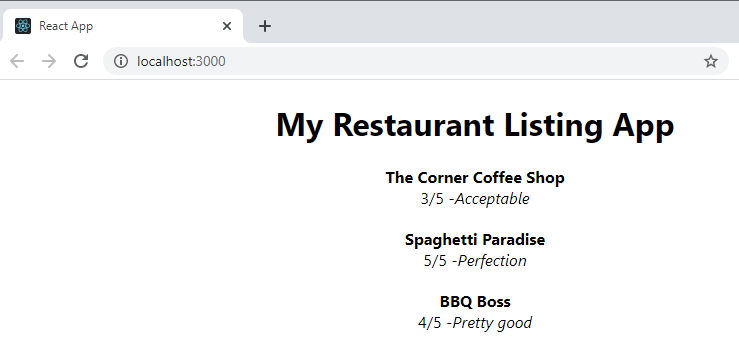
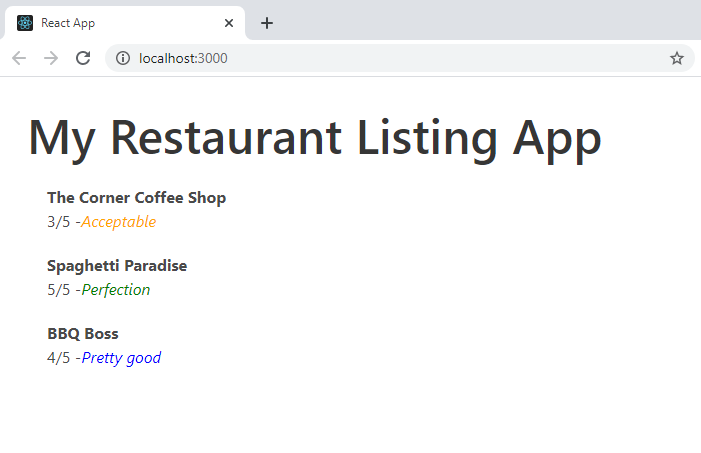
Style components

diff --git a/2021/2021-03-01_React JS Basics/src/quick-start-app/src/restaurants/RestaurantListItem.js b/2021/2021-03-01_React JS Basics/src/quick-start-app/src/restaurants/RestaurantListItem.js
@@ -3,6 +3,7 @@ import './RestaurantListItem.css';
 // Destructure restaurant from props object
 function RestaurantListItem({ restaurant }) {
   function getRatingElement(rating) {
+    // Example of conditional rendering
     switch(rating) {
       case '5':
         return <span className="rating-text perfect">Perfection</span>;

diff --git a/2021/2021-03-01_React JS Basics/Post.md b/2021/2021-03-01_React JS Basics/Post.md
@@ -131,22 +131,157 @@ At this point, the app should look like this.
 
 ## 4. <a name='style'></a>Style Components
 
-1. Add this to the top of `src/App.js`.
+1. Install a CSS framework of your choice. In this case, bulma.
+```
+npm install --save bulma
+```
+
+2. Add this to the top of `src/index.js`.
+```javascript
+// Import css framework
+import "bulma/css/bulma.min.css";
+```
+
+3. Modify `src/App.js` to look like this.
 ```javascript
 // Import css styles
 import './App.css';
-```
-2. Modify `src/App.css` to look like this.
-```css
-.App {
-  text-align: center;
+
+// Import the RestaurantList component from this path
+import RestaurantList from './restaurants/RestaurantList';
+
+function App() {
+  return (
+    <div className="App">
+      <h1 className="title is-1">My Restaurant Listing App</h1>
+
+      {/*Render the RestaurantList component and pass in a list of restaurants*/}
+      <RestaurantList restaurants={[
+        {
+          name: 'The Corner Coffee Shop',
+          rating: '3'
+        },
+        {
+          name: 'Spaghetti Paradise',
+          rating: '5'
+        },
+        {
+          name: 'BBQ Boss',
+          rating: '4'
+        }
+      ]}/>
+    </div>
+  );
 }
 
-h1 {
-  font-size: xx-large;
+export default App;
+```
+
+4. Modify `src/App.css` to look like this.
+```css
+.App {
+  margin: 30px;
 }
 ```
-3. 
+
+5. Modify `src/restaurants/RestaurantList.js` to look like this.
+```javascript
+// Import the RestaurantListItem component from this path
+import RestaurantListItem from './RestaurantListItem';
+
+import './RestaurantList.css';
+
+// Destructure restaurants from props object
+function RestaurantList({ restaurants }) {
+  return (
+    <ul>
+        {/*For each restaurant, render the RestaurantListItem component*/}
+        {restaurants.map(restaurant =>
+          <li key={restaurant.name}>
+            {/*Each child element must have a unique "key"*/}
+
+            {/*Pass the restaurant object to the nested component*/}
+            <RestaurantListItem
+              restaurant = {restaurant} />
+          </li>)}
+    </ul>
+  );
+}
+
+export default RestaurantList;
+```
+
+6. Create `src/restaurants/RestaurantList.css`.
+```css
+ul {
+  list-style-type: none;
+  padding: 0;
+  margin: 0;
+}
+```
+
+7. Modify `src/restaurants/RestaurantListItem.js` to look like this.
+```javascript
+import './RestaurantListItem.css';
+
+// Destructure restaurant from props object
+function RestaurantListItem({ restaurant }) {
+  function getRatingElement(rating) {
+    // Example of conditional rendering
+    switch(rating) {
+      case '5':
+        return <span className="rating-text perfect">Perfection</span>;
+      case '4':
+        return <span className="rating-text good">Pretty good</span>;
+      case '3':
+        return <span className="rating-text acceptable">Acceptable</span>;
+      default:
+        return <span className="rating-text">'Hmmm...'</span>;
+    }
+  }
+
+  return (
+    <div className="restaurant">
+      <div className="name">{restaurant.name}</div>
+      <div className="rating">
+        {restaurant.rating}/5 -
+        {getRatingElement(restaurant.rating)}
+      </div>
+    </div>
+  );
+}
+
+export default RestaurantListItem;
+```
+
+8. Create `src/restaurants/RestaurantListItem.css`.
+```css
+.restaurant {
+  margin: 20px;
+}
+
+.name {
+  font-weight: bold;
+}
+
+.rating-text {
+  font-style: italic;
+}
+
+.perfect {
+  color: green;
+}
+
+.good {
+  color: blue;
+}
+
+.acceptable {
+  color: orange;
+}
+```
+
+At this point, the app should look like this.
 
 | ![React app with styled components](styleComponents.PNG) | 
 |:--:| 
